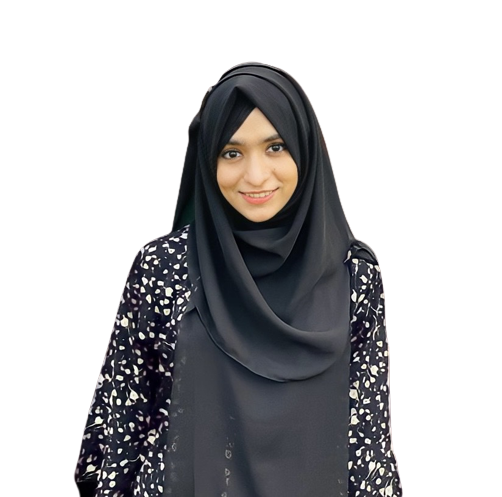
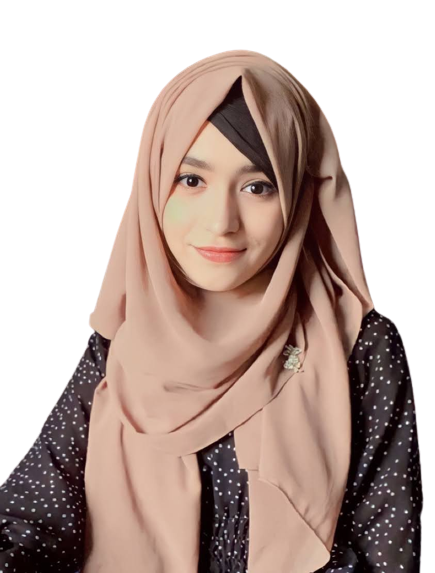
pictures, color changed and blog page removed

diff --git a/src/Pages/Home/Hero.js b/src/Pages/Home/Hero.js
@@ -1,15 +1,15 @@
 import React from 'react';
-import picture from '../../assets/images/picture.png'
+import picture from '../../assets/images/pic1.png'
 import resume from '../../assets/portfolio/Resume-Sayema.pdf';
 import { Link } from 'react-scroll';
 
 const Home = () => {
     return (
-        <div id="home" className='bg-base-300 pb-28 pt-10 lg:pt-14 lg:pb-0'>
+        <div id="home" className='bg-base-300 pb-28 pt-10 lg:pt-8 lg:pb-0 lg:mb-0'>
             <div className='max-w-7xl mx-auto'>
                 <div class="hero">
-                    <div class="hero-content flex-col lg:flex-row-reverse">
-                        <img src={picture} class="lg:w-[600px] lg:flex hidden rounded-lg ml-5" alt="Sayema Akhtar" />
+                    <div class="hero-content flex-col pb-0 lg:flex-row-reverse">
+                        <img src={picture} class="lg:w-[500px] lg:flex hidden rounded-lg ml-5" alt="Sayema Akhtar" />
                         <div className='text-center lg:text-start lg:max-w-lg lg:ml-5 mt-28 lg:mt-[-65px]'>
                             <p className='text-primary text-lg font-medium'>Hi there! I'm Sayema Akhtar.</p>
                             <h1 class="lg:text-6xl text-5xl text-white font-bold py-6">I Design Web Interfaces</h1>

diff --git a/src/Pages/Home/Contact.js b/src/Pages/Home/Contact.js
@@ -17,24 +17,24 @@ const Contact = () => {
                     name='Name'
                     type='text'
                     placeholder='Full Name'
-                    className='input w-full max-w-md bg-[#141831]'
+                    className='input w-full max-w-md bg-[#251f1b]'
                 /><input
                     required
                     name='Email'
                     type='email'
                     placeholder='Email Address'
-                    className='input w-full max-w-md bg-[#141831]'
+                    className='input w-full max-w-md bg-[#251f1b]'
                 />
                 <input
                     name='Subject'
                     type='text'
                     placeholder='Subject'
-                    className='input w-full max-w-md bg-[#141831]'
+                    className='input w-full max-w-md bg-[#251f1b]'
                 />
                 <textarea
                     required
                     name='Message'
-                    className='textarea w-full max-w-md bg-[#141831]'
+                    className='textarea w-full max-w-md bg-[#251f1b]'
                     placeholder='Your message'
                     rows={5}
                 ></textarea>

diff --git a/src/App.js b/src/App.js
@@ -1,6 +1,6 @@
 import { Route, Routes } from 'react-router-dom';
 import './App.css';
-import Blogs from './Pages/Home/Blogs';
+// import Blogs from './Pages/Home/Blogs';
 import Home from './Pages/Home/Home';
 import ProjectDetails from './Pages/Home/ProjectDetails';
 
@@ -12,7 +12,7 @@ function App() {
                 <Route path='/home' element={<Home />}></Route>
                 <Route path='project/:projectId' element={<ProjectDetails />}>
                 </Route>
-                <Route path='/blogs' element={<Blogs />}></Route>
+                {/* <Route path='/blogs' element={<Blogs />}></Route> */}
             </Routes>
         </div>
     );

diff --git a/src/Pages/Shared/NavItems.js b/src/Pages/Shared/NavItems.js
@@ -47,14 +47,14 @@ const NavItems = () => {
                 offset={-70}
                 className='transition-all duration-300'
             >Contact</Link></li>
-            <li className='hover:text-primary cursor-pointer'><LinkRouter
+            {/* <li className='hover:text-primary cursor-pointer'><LinkRouter
                 to='/blogs'
                 activeClass='active'
                 smooth={true}
                 duration={500}
                 offset={-70}
                 className='transition-all duration-300'
-            >Blogs</LinkRouter></li>
+            >Blogs</LinkRouter></li> */}
         </div>
     );
 };

diff --git a/tailwind.config.js b/tailwind.config.js
@@ -8,11 +8,11 @@ module.exports = {
         themes: [
             {
                 mytheme: {
-                    primary: "#6c62e2",
-                    secondary: "#f675c0",
+                    primary: "#e69877",
+                    secondary: "#ffffff",
                     accent: "#0a0f19",
                     neutral: "#0a0f19",
-                    "base-100": "#0a0f19",
+                    "base-100": "#0d0c0b",
                 },
             },
         ],

diff --git a/src/Pages/Shared/Navbar.js b/src/Pages/Shared/Navbar.js
@@ -13,7 +13,7 @@ const Navbar = () => {
     });
 
     return (
-        <div className={`${bg ? 'bg-[#0a0f19] h-20' : 'h-24'
+        <div className={`${bg ? 'bg-[#0d0c0b] h-20' : 'h-24'
             } flex items-center fixed top-0 w-full text-white z-10 transition-all duration-300`}>
             <div class="navbar max-w-6xl mx-auto mt-2">
                 <div class="navbar-start lg:hidden">
